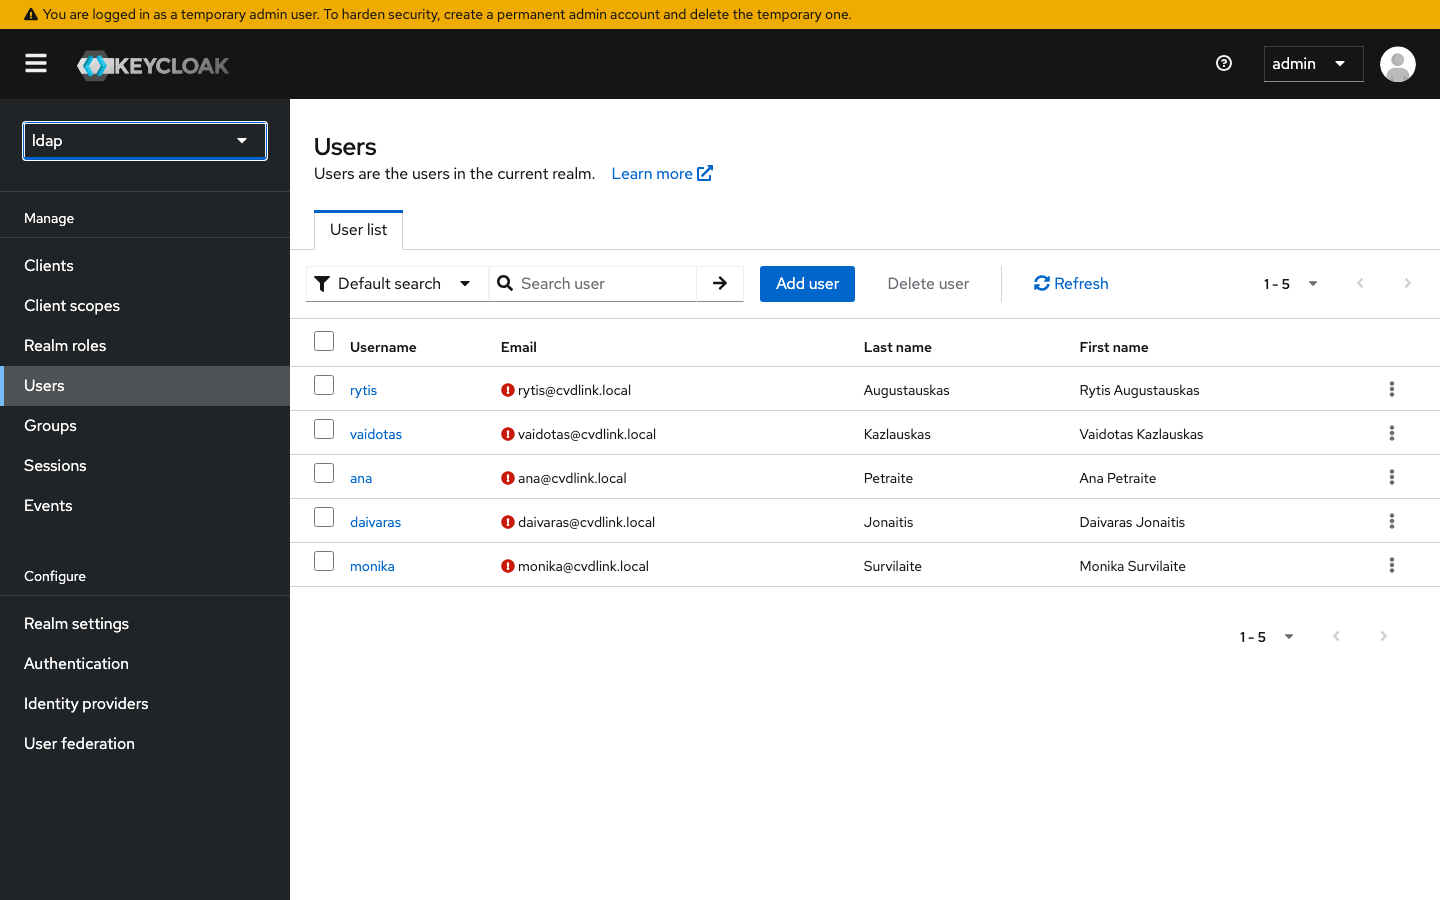
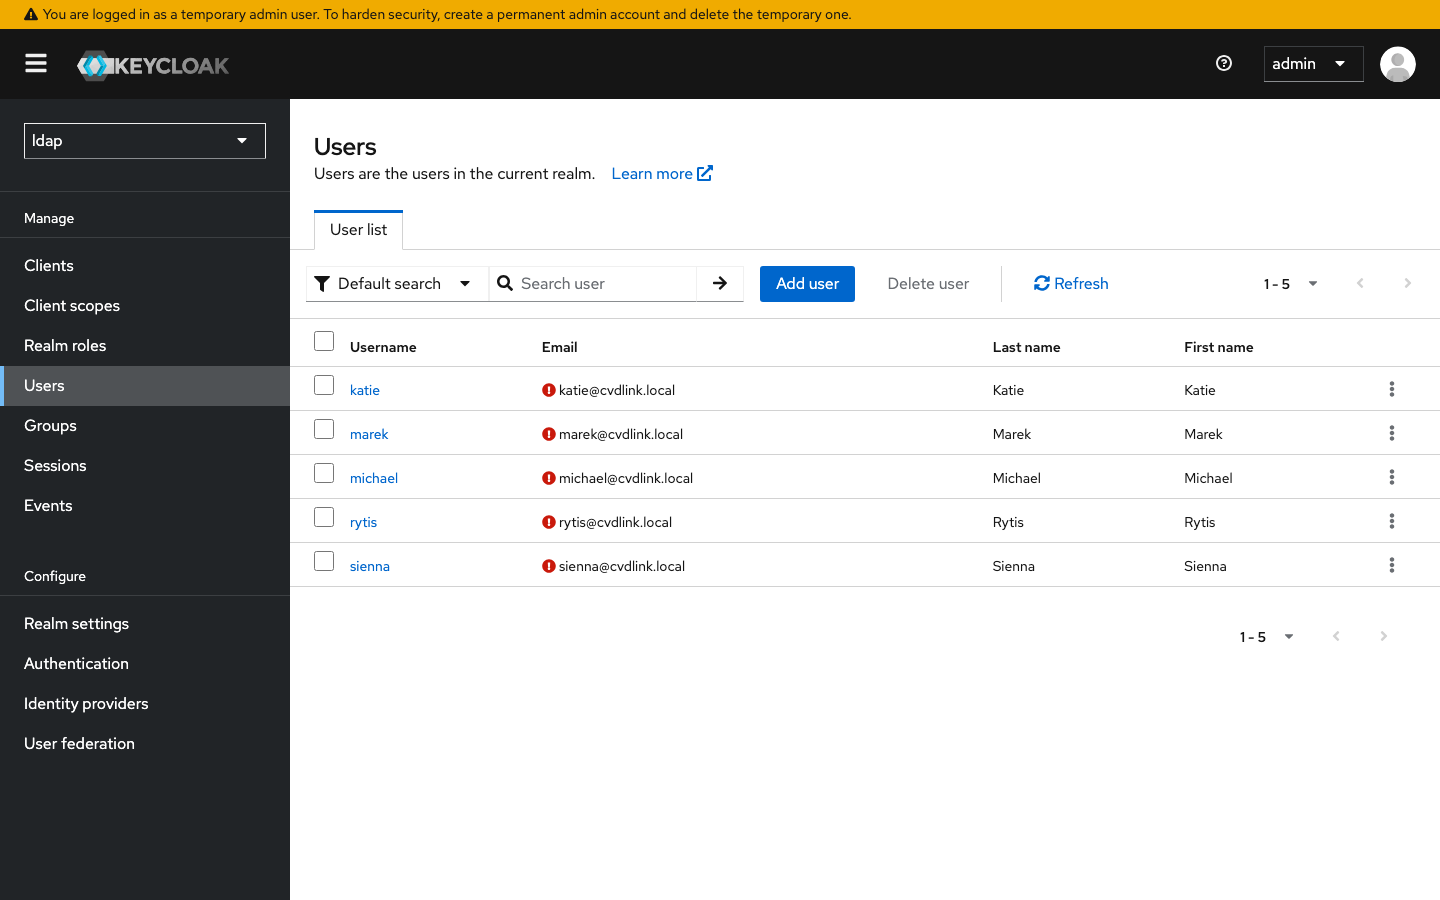
Rename LDAP demo users to first-name-only roster
The previous roster (vaidotas/ana/daivaras/monika) is replaced with five
first-name-only identities — rytis, katie, michael, marek, sienna — keeping
the group mapping intact (rytis: admins+researchers, katie: researchers,
michael: healthcare-professionals, marek: resource-managers, sienna:
healthcare-professionals+researchers for the multi-group demo).

- ldap/users.yaml: new identities, cn/sn equal to the first name to stay
  schema-valid against inetOrgPerson.
- tests: test_multi_group_membership now exercises sienna; test_config uses
  the rytis first-name-only entry.
- docs/04-ldap.md + README.md: user→role tables, directory tree, ldapsearch
  output, §4.8 'add a user' example all updated.
- Re-captured screenshots 22 (users list), 23 (rytis detail), 24 (groups),
  25 (sienna multi-group), 27 (account console) against the fresh stack.
- Verified with `docker compose --profile ldap up -d --build`, seed, and
  `pytest -q` (10 passed).

diff --git a/ldap/seed/tests/test_directory.py b/ldap/seed/tests/test_directory.py
@@ -47,8 +47,8 @@ def test_group_membership(ldap_conn, base_dn):
 
 
 def test_multi_group_membership(ldap_conn, base_dn):
-    """monika is in both healthcare-professionals and researchers."""
-    expected_dn = f"uid=monika,ou=people,{base_dn}"
+    """sienna is in both healthcare-professionals and researchers."""
+    expected_dn = f"uid=sienna,ou=people,{base_dn}"
     for group in ("healthcare-professionals", "researchers"):
         ldap_conn.search(
             f"cn={group},ou=groups,{base_dn}",
@@ -56,5 +56,5 @@ def test_multi_group_membership(ldap_conn, base_dn):
             attributes=["member"],
         )
         assert expected_dn in ldap_conn.entries[0]["member"].values, (
-            f"monika missing from {group}"
+            f"sienna missing from {group}"
         )

diff --git a/ldap/seed/tests/test_config.py b/ldap/seed/tests/test_config.py
@@ -9,8 +9,8 @@ def test_load_config_parses_users_and_groups(tmp_path: Path):
     path.write_text(textwrap.dedent("""
         users:
           - uid: rytis
-            cn: Rytis Augustauskas
-            sn: Augustauskas
+            cn: Rytis
+            sn: Rytis
             mail: rytis@cvdlink.local
             password: secret
             groups: [researchers]
@@ -24,8 +24,8 @@ def test_load_config_parses_users_and_groups(tmp_path: Path):
     assert cfg.users == [
         User(
             uid="rytis",
-            cn="Rytis Augustauskas",
-            sn="Augustauskas",
+            cn="Rytis",
+            sn="Rytis",
             mail="rytis@cvdlink.local",
             password="secret",
             groups=["researchers"],

diff --git a/docs/04-ldap.md b/docs/04-ldap.md
@@ -27,9 +27,9 @@ keep a separate tab open to look them up.
 | **RDN**   | Relative Distinguished Name           | The left-most piece of a DN — the name *relative* to the parent. For a user it is usually `uid=rytis`. |
 | **DC**    | Domain Component                      | One label of the directory root. `dc=cvdlink,dc=local` mirrors the DNS name `cvdlink.local`. |
 | **OU**    | Organizational Unit                   | A subtree inside the directory. We use two: `ou=people` for users and `ou=groups` for groups. |
-| **CN**    | Common Name                           | Display name of an entry. For users: full name (`Rytis Augustauskas`); for groups: the group name (`admins`). |
+| **CN**    | Common Name                           | Display name of an entry. For users: their first name (`Rytis`, `Katie`, …); for groups: the group name (`admins`). |
 | **SN**    | Surname                               | Family name attribute required by the `inetOrgPerson` schema. |
-| **UID**   | User ID                               | Short login name (`rytis`, `vaidotas`, …). Used as the `uid` attribute and as the RDN. |
+| **UID**   | User ID                               | Short login name (`rytis`, `katie`, …). Used as the `uid` attribute and as the RDN. |
 | **LDIF**  | LDAP Data Interchange Format          | Textual representation of directory entries. [`bootstrap.ldif`](../ldap/bootstrap.ldif) is one example. |
 | **IdP**   | Identity Provider                     | The service that *issues* identities and tokens. Keycloak is the IdP here. |
 | **SP**    | Service Provider / Resource Server    | An app that *consumes* tokens. The Python API in `examples/python-api` is an SP. |
@@ -65,7 +65,7 @@ playground):
 
 | Realm  | Federation                        | Users (from `ldap/users.yaml`)                          | Groups                                                              |
 |--------|-----------------------------------|---------------------------------------------------------|----------------------------------------------------------------------|
-| `ldap` | OpenLDAP, `editMode: WRITABLE`    | `rytis`, `vaidotas`, `ana`, `daivaras`, `monika`        | `admins`, `researchers`, `healthcare-professionals`, `resource-managers` |
+| `ldap` | OpenLDAP, `editMode: WRITABLE`    | `rytis`, `katie`, `michael`, `marek`, `sienna`            | `admins`, `researchers`, `healthcare-professionals`, `resource-managers` |
 
 The original `cvdlink` realm is untouched.
 
@@ -74,7 +74,7 @@ The original `cvdlink` realm is untouched.
 ```mermaid
 flowchart LR
     subgraph Browser["Browser / API client"]
-      user["End user<br/>(rytis, vaidotas, …)"]
+      user["End user<br/>(rytis, katie, …)"]
     end
 
     subgraph Stack["docker compose --profile ldap"]
@@ -103,10 +103,10 @@ OpenLDAP stores entries as a tree. The shape this playground seeds looks like:
 dc=cvdlink,dc=local
 ├── ou=people
 │   ├── uid=rytis         (CVDLINK Admin + Researcher)
-│   ├── uid=vaidotas      (CVDLINK Researcher)
-│   ├── uid=ana           (CVDLINK Healthcare Professional)
-│   ├── uid=daivaras      (CVDLINK Resource Manager)
-│   └── uid=monika        (CVDLINK Healthcare Professional + Researcher)
+│   ├── uid=katie         (CVDLINK Researcher)
+│   ├── uid=michael         (CVDLINK Healthcare Professional)
+│   ├── uid=marek         (CVDLINK Resource Manager)
+│   └── uid=sienna        (CVDLINK Healthcare Professional + Researcher)
 └── ou=groups
     ├── cn=admins
     ├── cn=researchers
@@ -184,8 +184,8 @@ Expected last line: `INFO done`.
 
 1. Open <http://localhost:8081/admin> (`admin` / `admin`).
 2. Switch the realm dropdown (top-left) to `ldap`.
-3. **Users** → all five seeded users (`rytis`, `vaidotas`, `ana`, `daivaras`,
-   `monika`) appear in the list.
+3. **Users** → all five seeded users (`rytis`, `katie`, `michael`, `marek`,
+   `sienna`) appear in the list.
 4. **User federation** → the `ldap` `UserStorageProvider` is listed and
    *Enabled*.
 5. **Groups** → `admins`, `researchers`, `healthcare-professionals`,
@@ -242,11 +242,11 @@ sync, all four LDAP groups appear in the realm:
 
 #### Group membership
 
-The interesting case is `monika`, who belongs to *two* groups in LDAP
+The interesting case is `sienna`, who belongs to *two* groups in LDAP
 (`healthcare-professionals` and `researchers`). Multi-group membership flows
 through the mapper unchanged:
 
-![monika user with two group memberships](images/25-ldap-user-groups.png)
+![sienna user with two group memberships](images/25-ldap-user-groups.png)
 
 ### 4.4.4 Force an immediate group sync
 
@@ -291,21 +291,21 @@ dn: uid=rytis,ou=people,dc=cvdlink,dc=local
 uid: rytis
 mail: rytis@cvdlink.local
 
-dn: uid=vaidotas,ou=people,dc=cvdlink,dc=local
-uid: vaidotas
-mail: vaidotas@cvdlink.local
+dn: uid=katie,ou=people,dc=cvdlink,dc=local
+uid: katie
+mail: katie@cvdlink.local
 
-dn: uid=ana,ou=people,dc=cvdlink,dc=local
-uid: ana
-mail: ana@cvdlink.local
+dn: uid=michael,ou=people,dc=cvdlink,dc=local
+uid: michael
+mail: michael@cvdlink.local
 
-dn: uid=daivaras,ou=people,dc=cvdlink,dc=local
-uid: daivaras
-mail: daivaras@cvdlink.local
+dn: uid=marek,ou=people,dc=cvdlink,dc=local
+uid: marek
+mail: marek@cvdlink.local
 
-dn: uid=monika,ou=people,dc=cvdlink,dc=local
-uid: monika
-mail: monika@cvdlink.local
+dn: uid=sienna,ou=people,dc=cvdlink,dc=local
+uid: sienna
+mail: sienna@cvdlink.local
 ```
 
 Fetch a single user through Keycloak's Admin API instead — the entry comes
@@ -361,13 +361,13 @@ are left alone, and new users are added to whichever groups the YAML names.
 The seeded directory mirrors the CVDLINK domain model — each LDAP group lines
 up with one of the realm roles you saw in [§Default credentials](../README.md#default-credentials).
 
-| Username   | Full name             | LDAP groups                                | Maps to CVDLINK role(s)                                    |
-|------------|-----------------------|--------------------------------------------|-------------------------------------------------------------|
-| `rytis`    | Rytis Augustauskas    | `admins`, `researchers`                    | CVDLINK Admin + CVDLINK Researcher                          |
-| `vaidotas` | Vaidotas Kazlauskas   | `researchers`                              | CVDLINK Researcher                                          |
-| `ana`      | Ana Petraite          | `healthcare-professionals`                 | CVDLINK Healthcare Professional                             |
-| `daivaras` | Daivaras Jonaitis     | `resource-managers`                        | CVDLINK Resource Manager                                    |
-| `monika`   | Monika Survilaite     | `healthcare-professionals`, `researchers`  | CVDLINK Healthcare Professional + CVDLINK Researcher        |
+| Username | LDAP groups                                | Maps to CVDLINK role(s)                                    |
+|----------|--------------------------------------------|-------------------------------------------------------------|
+| `rytis`  | `admins`, `researchers`                    | CVDLINK Admin + CVDLINK Researcher                          |
+| `katie`  | `researchers`                              | CVDLINK Researcher                                          |
+| `michael`  | `healthcare-professionals`                 | CVDLINK Healthcare Professional                             |
+| `marek`  | `resource-managers`                        | CVDLINK Resource Manager                                    |
+| `sienna` | `healthcare-professionals`, `researchers`  | CVDLINK Healthcare Professional + CVDLINK Researcher        |
 
 All five users share the password `changeme` for local play. The mapping from
 LDAP group → realm role is **not automatic** — Keycloak's group-mapper makes
@@ -396,7 +396,7 @@ Covers:
 - **`test_ldap_ops.py`** — LDAP upsert idempotency, password bind, group
   membership, and the `modify`-branch update path.
 - **`test_directory.py`** — end-to-end visibility in OpenLDAP and in the
-  federated Keycloak realm (incl. multi-group membership via `monika`).
+  federated Keycloak realm (incl. multi-group membership via `sienna`).
 
 ---
 
@@ -408,10 +408,10 @@ Edit [`ldap/users.yaml`](../ldap/users.yaml):
 
 ```yaml
 users:
-  - uid: laura
-    cn: Laura Kavaliauskaite
-    sn: Kavaliauskaite
-    mail: laura@cvdlink.local
+  - uid: nora
+    cn: Nora
+    sn: Nora
+    mail: nora@cvdlink.local
     password: changeme
     groups: [researchers]
 ```
@@ -433,12 +433,12 @@ table).
 ```bash
 docker compose exec openldap ldapadd -x \
   -D "cn=admin,dc=cvdlink,dc=local" -w admin <<'EOF'
-dn: uid=laura,ou=people,dc=cvdlink,dc=local
+dn: uid=nora,ou=people,dc=cvdlink,dc=local
 objectClass: inetOrgPerson
-uid: laura
-cn: Laura Kavaliauskaite
-sn: Kavaliauskaite
-mail: laura@cvdlink.local
+uid: nora
+cn: Nora
+sn: Nora
+mail: nora@cvdlink.local
 userPassword: changeme
 EOF
 ```

diff --git a/README.md b/README.md
@@ -174,13 +174,13 @@ The seed container creates the `ldap` realm, registers OpenLDAP as a Keycloak
 `UserStorageProvider`, and writes users + groups from
 [`ldap/users.yaml`](ldap/users.yaml):
 
-| Username   | Full name             | LDAP groups                                | CVDLINK role equivalent                                    |
-|------------|-----------------------|--------------------------------------------|-------------------------------------------------------------|
-| `rytis`    | Rytis Augustauskas    | `admins`, `researchers`                    | Admin + Researcher                                          |
-| `vaidotas` | Vaidotas Kazlauskas   | `researchers`                              | Researcher                                                  |
-| `ana`      | Ana Petraite          | `healthcare-professionals`                 | Healthcare Professional                                     |
-| `daivaras` | Daivaras Jonaitis     | `resource-managers`                        | Resource Manager                                            |
-| `monika`   | Monika Survilaite     | `healthcare-professionals`, `researchers`  | Healthcare Professional + Researcher (multi-group demo)     |
+| Username | LDAP groups                                | CVDLINK role equivalent                                    |
+|----------|--------------------------------------------|-------------------------------------------------------------|
+| `rytis`  | `admins`, `researchers`                    | Admin + Researcher                                          |
+| `katie`  | `researchers`                              | Researcher                                                  |
+| `michael`  | `healthcare-professionals`                 | Healthcare Professional                                     |
+| `marek`  | `resource-managers`                        | Resource Manager                                            |
+| `sienna` | `healthcare-professionals`, `researchers`  | Healthcare Professional + Researcher (multi-group demo)     |
 
 All five users share the password `changeme`. The full walkthrough — directory
 tree, login sequence diagram, glossary of LDAP terms (DN, RDN, OU, CN, …), and
